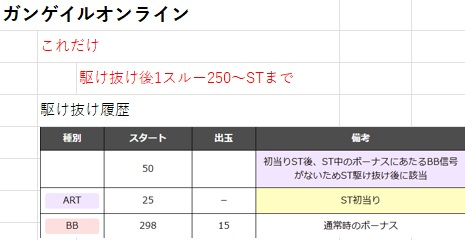
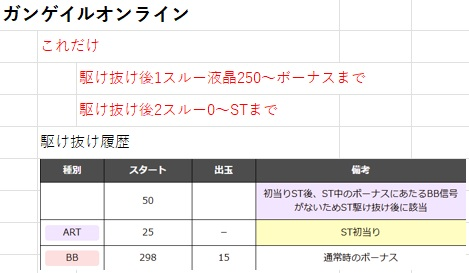
.

Changed region(s): [[0.0, 0.0, 1.0, 0.9917], [0.0, 0.0, 0.4215, 0.0875], [0.7226, 0.9917, 0.7527, 1.0]]

diff --git a/index.html b/index.html
@@ -11,16 +11,14 @@
 
   
   
-  <a href="Pages/garo.html">牙狼★</a></br>
+  <a href="Pages/garo.html">牙狼★★</a></br>
   <a href="Pages/seiya.html">星矢★</a></br>
   <a href="Pages/gojieva.html">ゴジエヴァ</a></br>
   <a href="Pages/raguna.html">ラグナドール</a></br>
-  <a href="Pages/GGO.html">ガンゲイルオンライン</a></br>
+  <a href="Pages/GGO.html">ガンゲイルオンライン★</a></br>
   <a href="Pages/paripi.html">パリピ孔明</a></br>
-  <a href="Pages/juuou.html">獣王</a></br>
+  <a href="Pages/juuou.html">獣王★</a></br>
   <a href="Pages/SunBreak.html">モンハンサンブレイク</a></br>
-  <a href="Pages/haibire.html">ハイビリターン</a></br>
-  <a href="Pages/mogumogu.html">もぐもぐ風林火山</a></br>
   <a href="Pages/rikoriko.html">リコリコ★★</a></br>
   <a href="Pages/aobuta.html">青ブタ★★★</a></br>
   <a href="Pages/black.html">沖ドキBlack★★</a></br>
@@ -28,10 +26,7 @@
   <a href="Pages/toaru2.html">とある魔術の禁書目録</a></br>
   <a href="Pages/yajikita.html">やじきた</a></br>
   <a href="Pages/suto6.html">スト6★</a></br>
-  <a href="Pages/jasin.html">邪心ちゃん</a></br>
   <a href="Pages/worldDaiStar.html">ワールドダイスター</a></br>
-  <a href="Pages/tondemo.html">とんでも</a></br>
-  <a href="Pages/bingo.html">すーぱーびん娘</a></br>
   <a href="Pages/senkore.html">戦コレ6★</a></br>
   <a href="Pages/karakuri2.html">からくりサーカス2★★</a></br>
   <a href="Pages/otome5.html">戦国乙女5★</a></br>
@@ -40,6 +35,12 @@
   <a href="Pages/magireko.html">マギレコ★★★</a></br>
   <a href="Pages/koukaku.html">攻殻機動隊★★</a></br>
   <a href="Pages/monki-.html">モンキー★★★</a></br>
+  </br>
+  <a href="Pages/haibire.html">ハイビリターン</a></br>
+  <a href="Pages/mogumogu.html">もぐもぐ風林火山</a></br>
+  <a href="Pages/jasin.html">邪心ちゃん</a></br>
+  <a href="Pages/tondemo.html">とんでも</a></br>
+  <a href="Pages/bingo.html">すーぱーびん娘</a></br>
   
   </br></br>
   <a href="https://naruchan-kaiseki.com/%e6%b2%96%e3%83%89%e3%82%adblack%ef%bd%9c%e7%89%b9%e6%ae%8a%e3%83%a2%e3%83%bc%e3%83%89%e8%80%83%e6%85%ae/">
